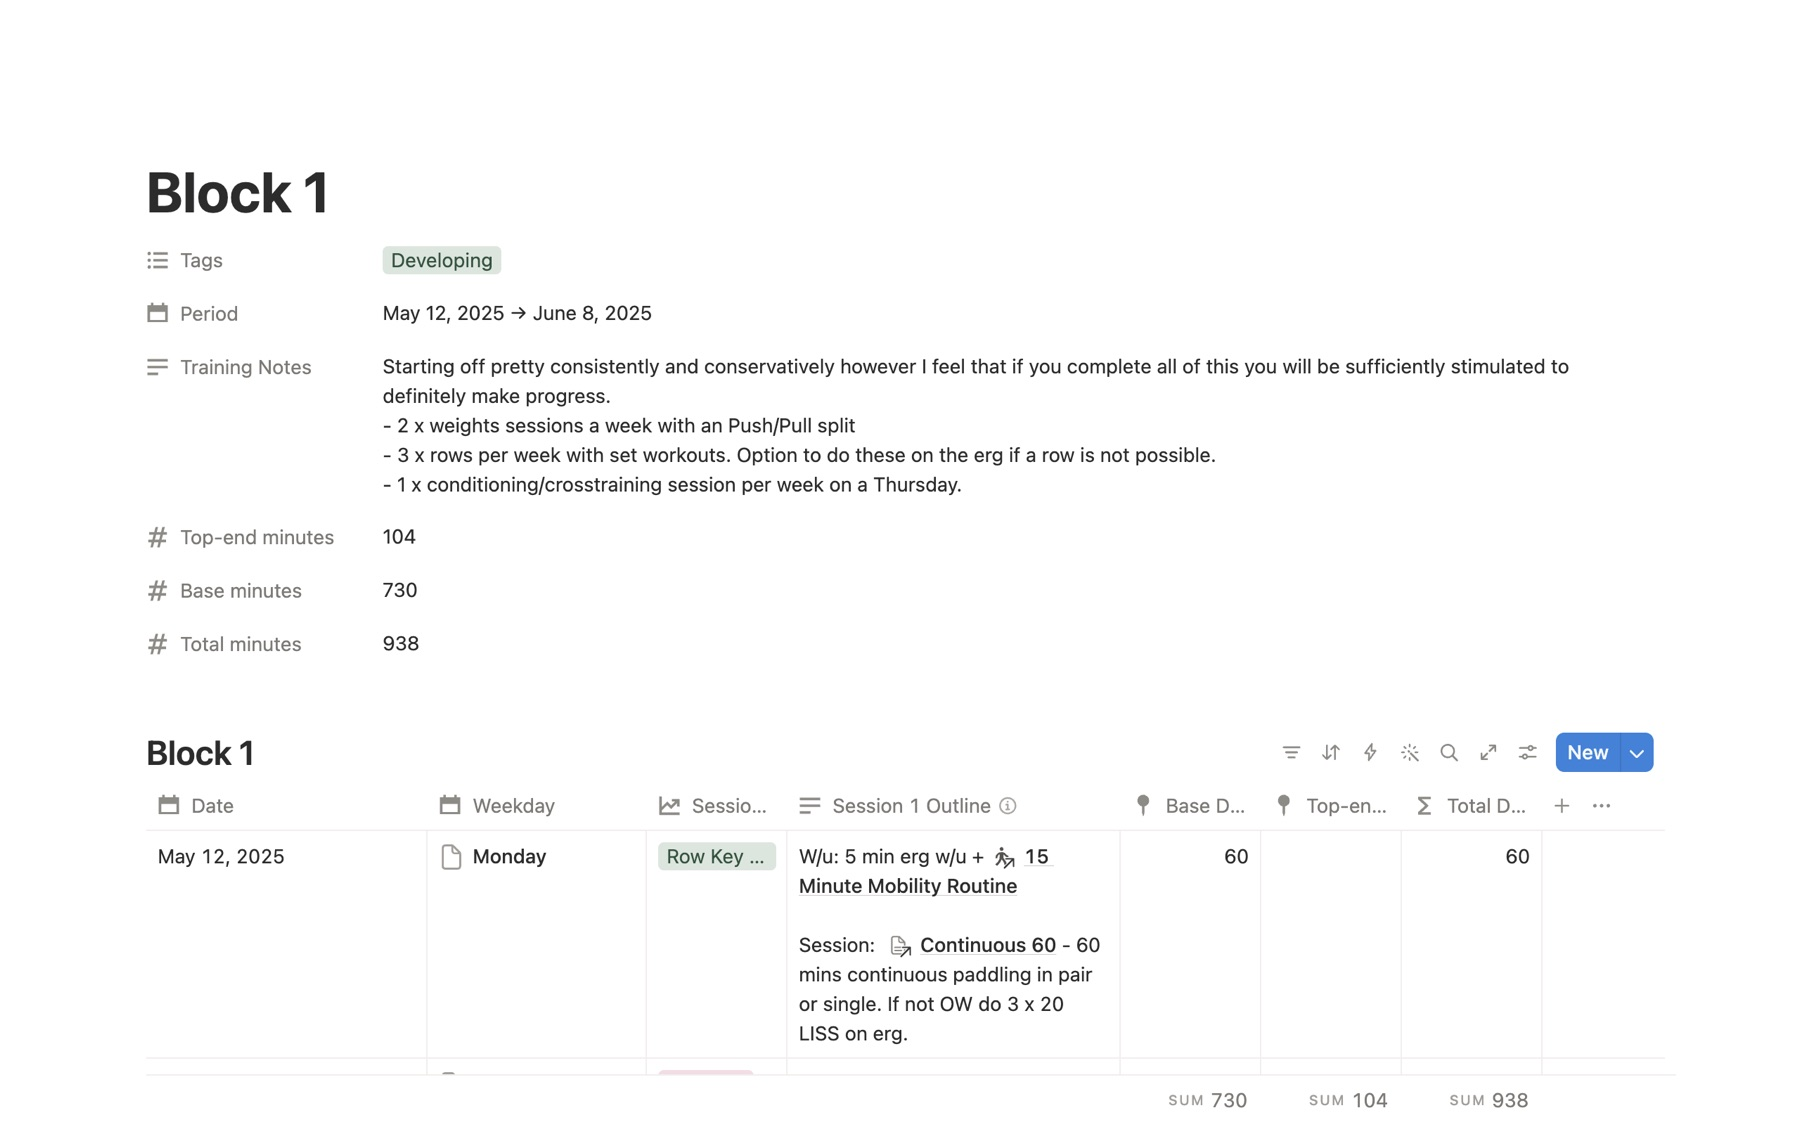
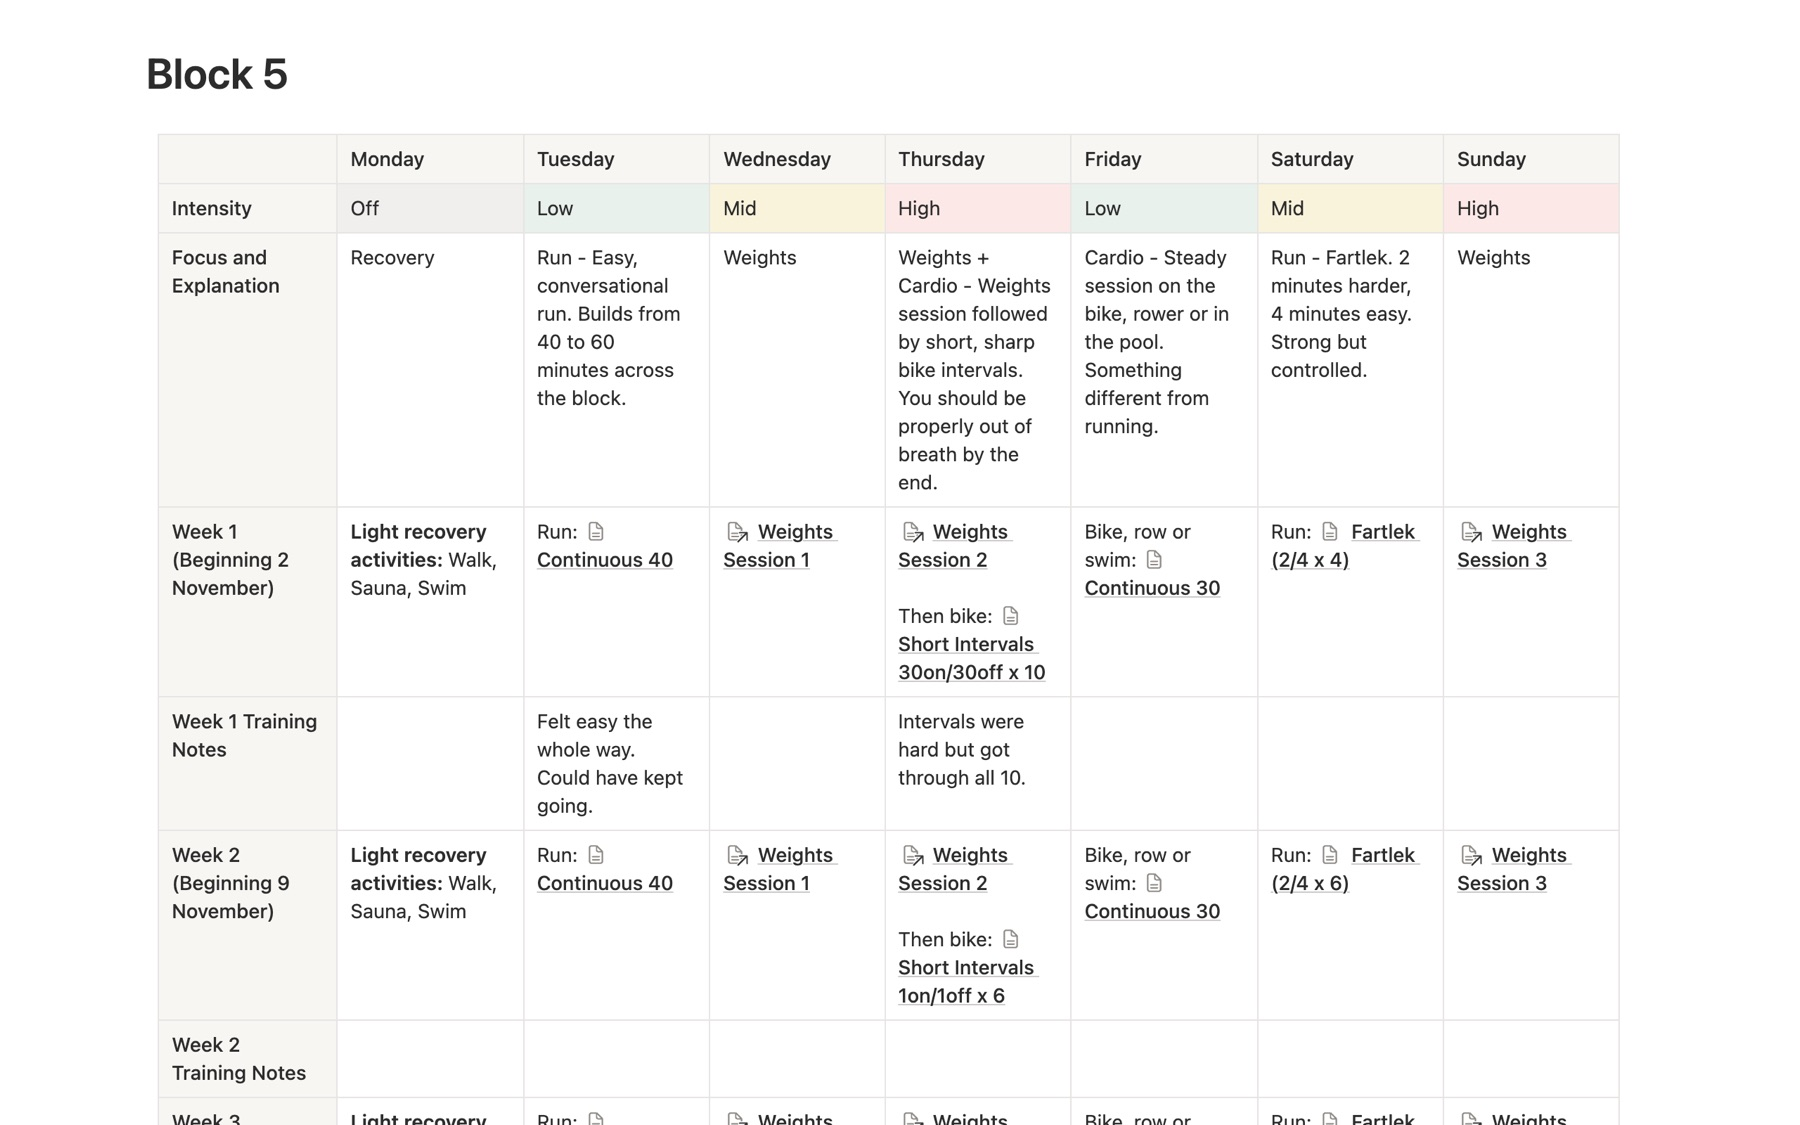
Update inside page with new-style program screenshots
New program and block screenshots from the rebuilt example program, and step 03 copy no longer mentions minutes tracked.

diff --git a/inside.html b/inside.html
@@ -335,15 +335,15 @@
           <div class="copy">
             <p class="num">03 · Your program</p>
             <h3>Four-week blocks, explained.</h3>
-            <p>Your program is written in four-week blocks. Each block comes with notes on what changed and why, and how much easy and hard work is in it, so you can see the progression.</p>
+            <p>Your program is written in four-week blocks. Each block comes with notes from Nick on what changed and why, so you can see the progression. Past blocks are kept in your archive.</p>
             <ul>
               <li>Notes from Nick on every block</li>
-              <li>Total, easy and hard minutes tracked</li>
+              <li>Every day set as easy, moderate or hard</li>
               <li>Adjusted as you go, when life changes</li>
             </ul>
           </div>
           <figure class="shot"><div class="bar"><i></i><i></i><i></i></div>
-            <img src="/inside/coaching-program.jpg" alt="The program database showing four training blocks with notes and minutes" loading="lazy" width="1800" height="1125">
+            <img src="/inside/coaching-program.jpg" alt="The program database showing the current training block with notes from Nick" loading="lazy" width="1800" height="1125">
           </figure>
         </article>
 
@@ -354,7 +354,7 @@
             <p>Open a block and every day is laid out, with what to do and how hard to go. Your weights sessions sit right underneath, ready to open in the gym.</p>
           </div>
           <figure class="shot"><div class="bar"><i></i><i></i><i></i></div>
-            <img src="/inside/coaching-block.jpg" alt="A training block with each day's sessions and the weights sessions below" loading="lazy" width="1800" height="1125">
+            <img src="/inside/coaching-block.jpg" alt="A training block table with each day's intensity, focus and linked sessions for every week" loading="lazy" width="1800" height="1125">
           </figure>
         </article>
 
